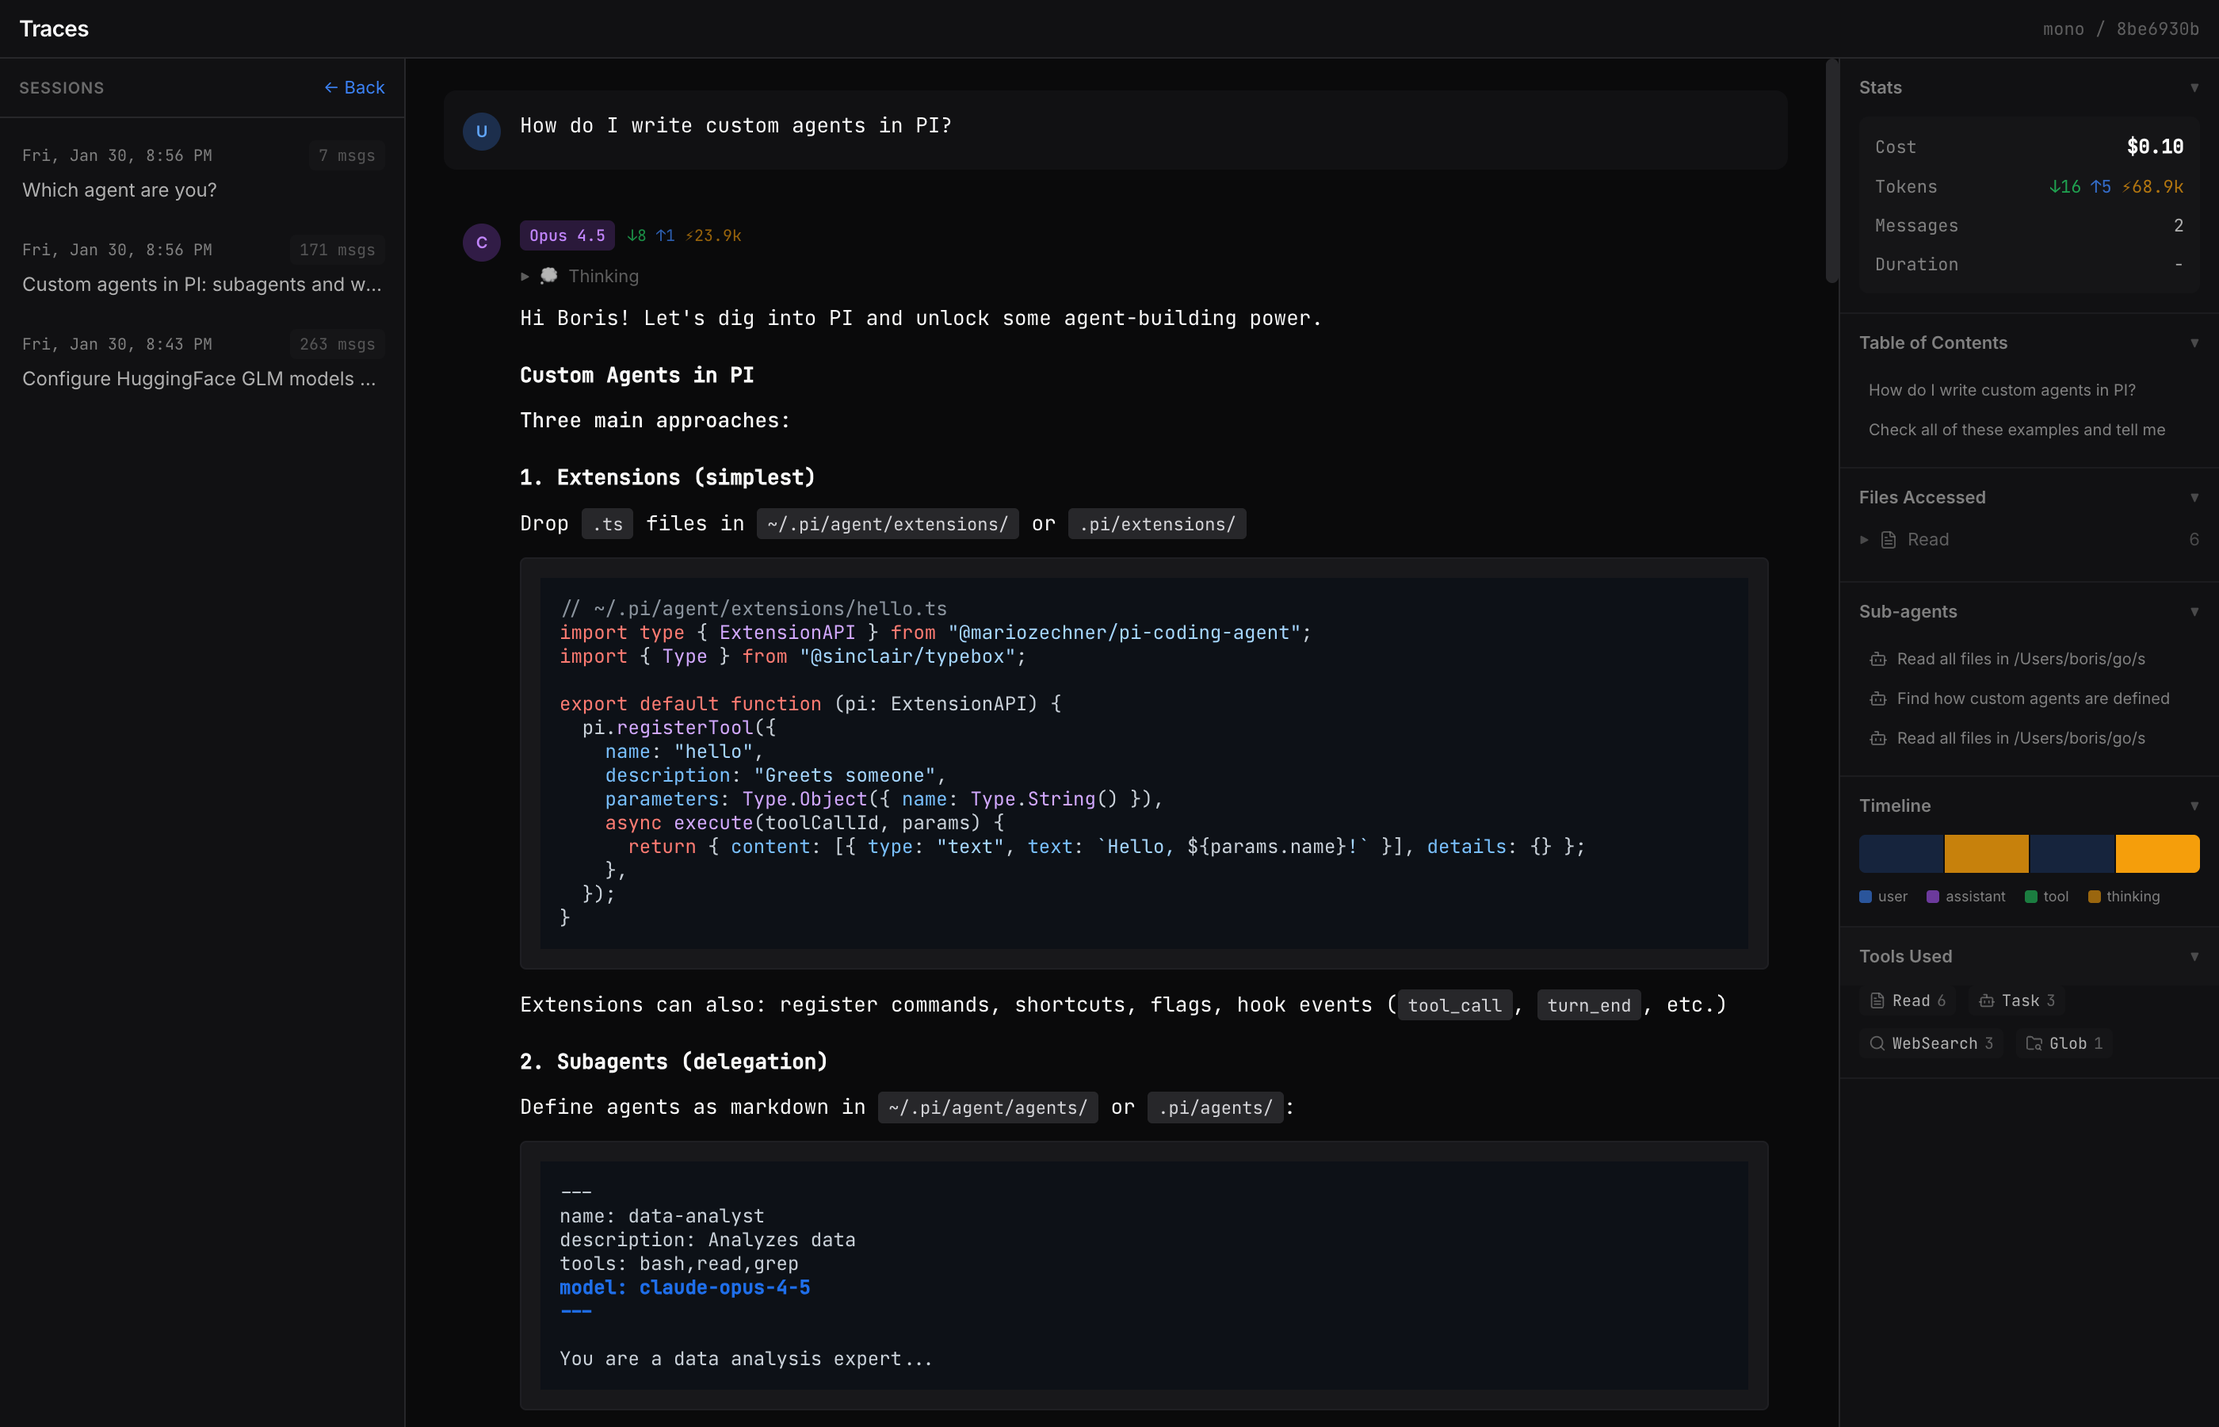
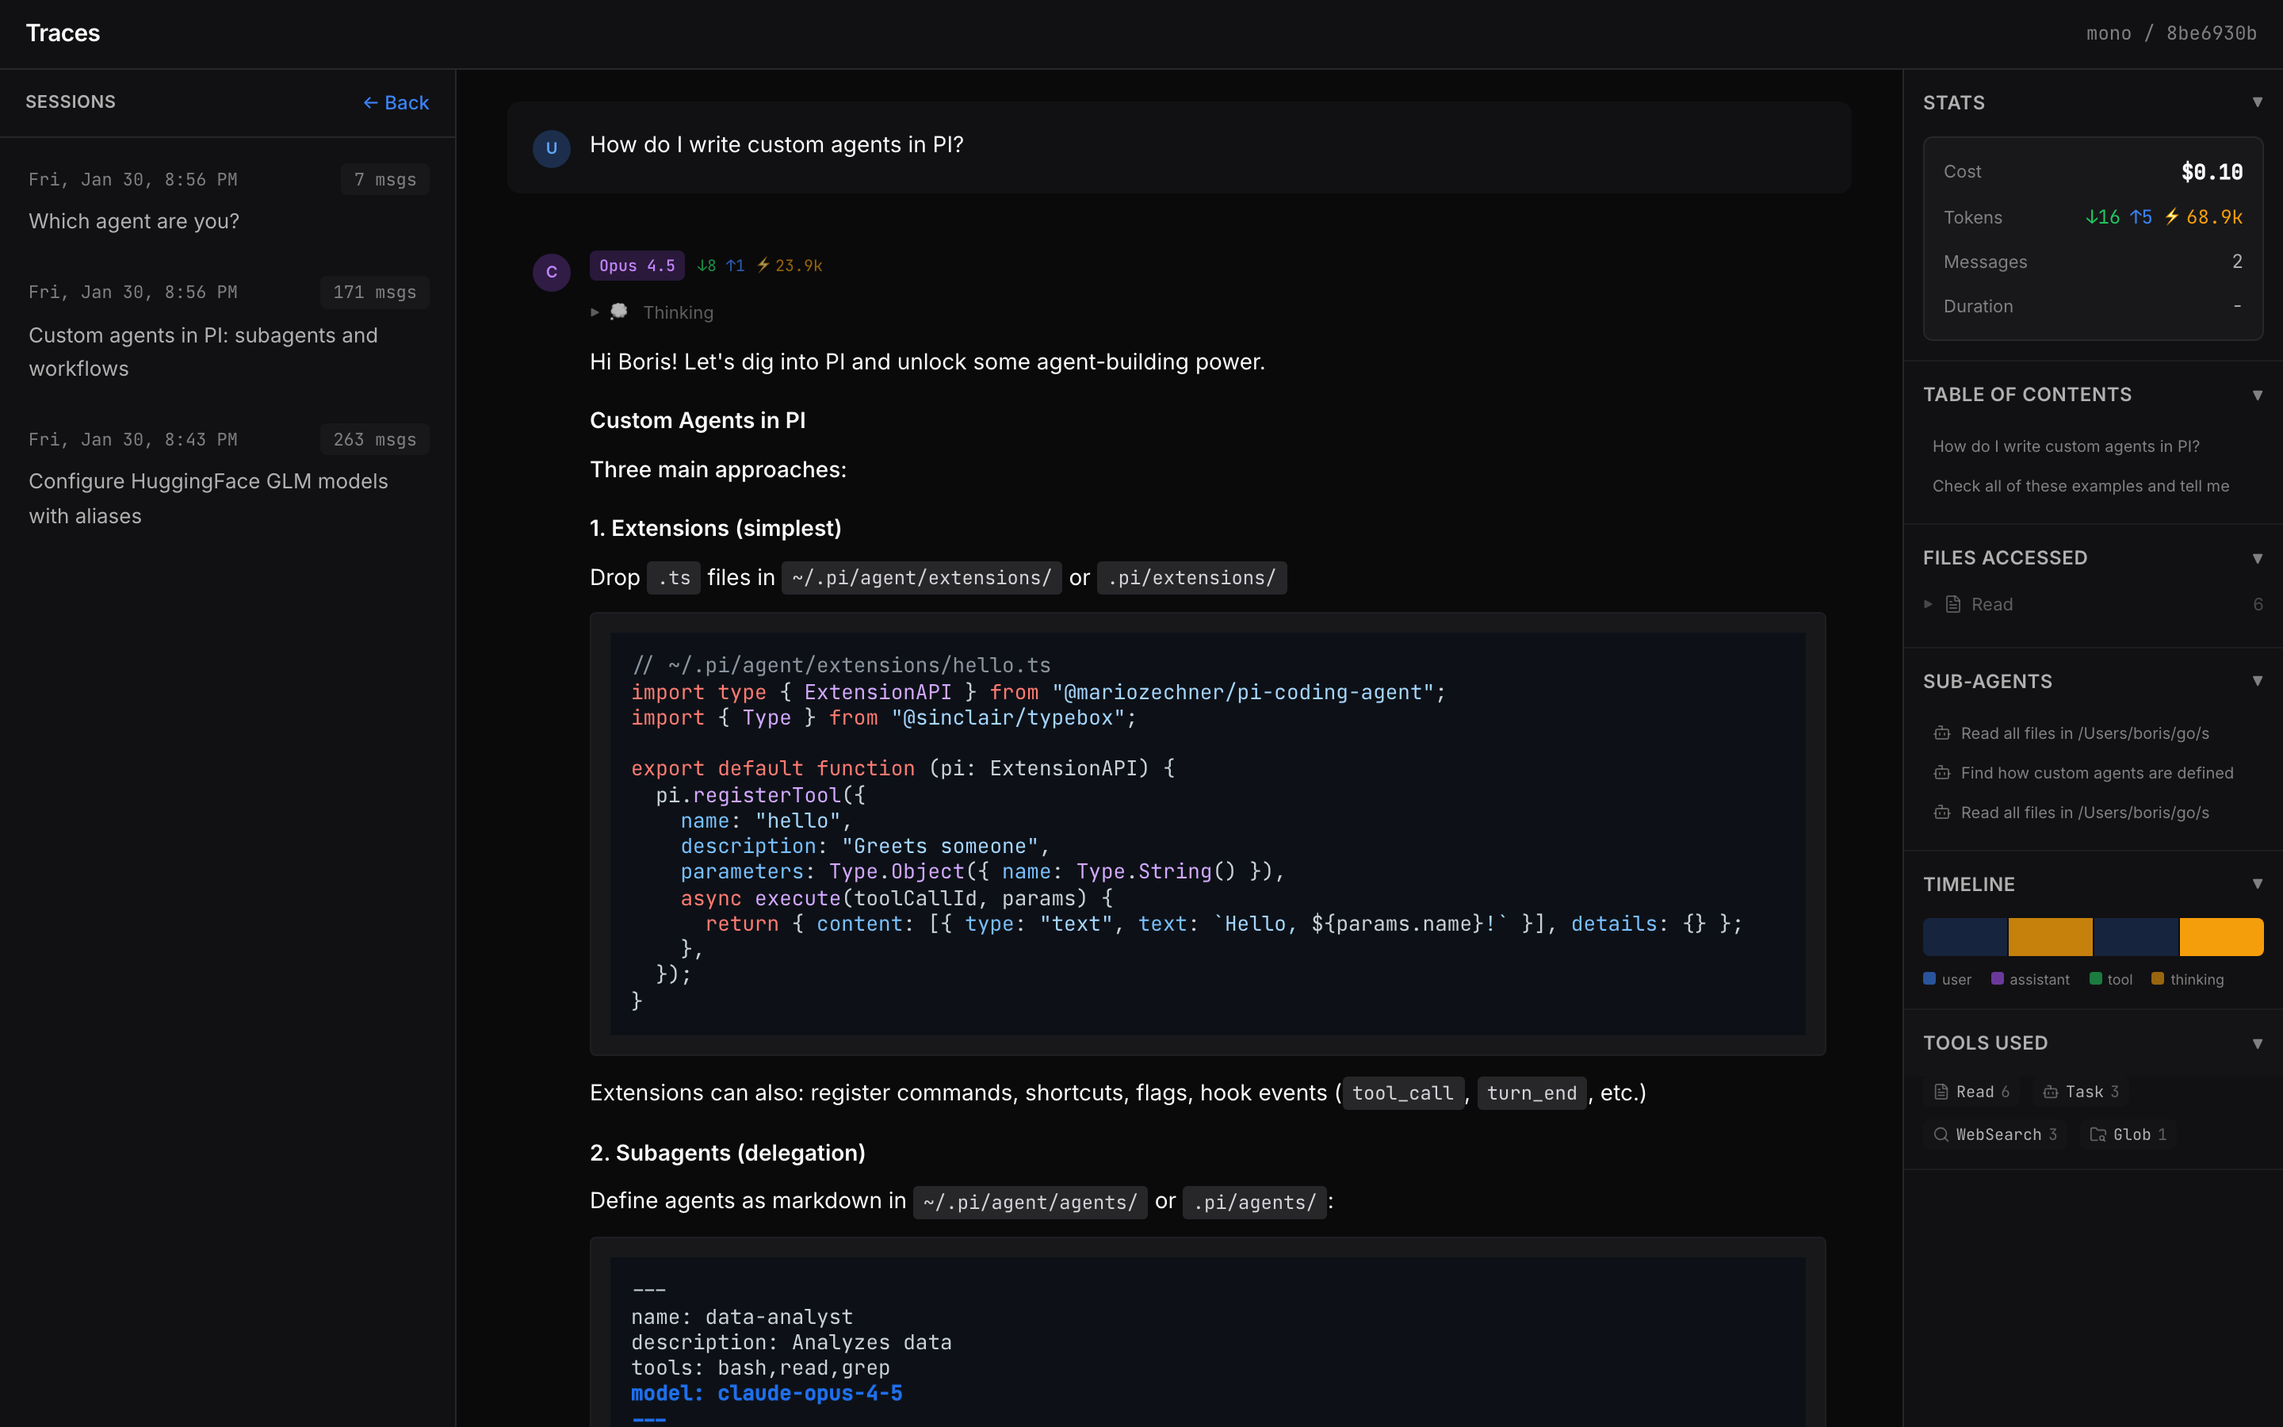
Improve typography: sans-serif prose, monospace code, better contrast
- Messages: 14px sans-serif (was 13px monospace)
- Better spacing and visual hierarchy
- Sidebar: wider with larger text
- Stats: improved contrast
- Add Playwright retina screenshot tests

diff --git a/app.jsx b/app.jsx
@@ -317,10 +317,10 @@ function UserMessage({ content, id }) {
   if (!text.trim()) return null;
 
   return (
-    <div id={id} className="message flex gap-3 py-3 px-3 bg-surface-2/50 rounded-lg">
+    <div id={id} className="message flex gap-3 py-4 px-4 bg-surface-2/50 rounded-lg">
       <Avatar type="user" />
       <div className="flex-1 min-w-0">
-        <MarkdownContent text={text} className="text-text-primary prose prose-invert prose-sm max-w-none font-mono text-[13px] leading-relaxed" />
+        <MarkdownContent text={text} className="text-text-primary prose prose-invert prose-sm max-w-none text-[14px] leading-relaxed" />
       </div>
     </div>
   );
@@ -367,9 +367,9 @@ function AssistantMessage({ blocks, model, usage, id }) {
   }, [blocks]);
 
   return (
-    <div id={id} className="message flex gap-3 py-3 px-3" ref={ref}>
+    <div id={id} className="message flex gap-3 py-4 px-4" ref={ref}>
       <Avatar type="assistant" />
-      <div className="flex-1 min-w-0 space-y-2">
+      <div className="flex-1 min-w-0 space-y-3">
         {/* Model and token info */}
         {(model || usage) && (
           <div className="flex items-center gap-2 mb-1">
@@ -379,14 +379,14 @@ function AssistantMessage({ blocks, model, usage, id }) {
         )}
         {thinkingParts.length > 0 && (
           <Collapsible title="Thinking" icon="💭">
-            <MarkdownContent text={thinkingParts.join('\n\n')} className="text-[12px] opacity-80" />
+            <MarkdownContent text={thinkingParts.join('\n\n')} className="text-[13px] text-text-secondary leading-relaxed" />
           </Collapsible>
         )}
         {textParts.length > 0 && (
-          <MarkdownContent text={textParts.join('\n')} className="text-text-primary prose prose-invert prose-sm max-w-none font-mono text-[13px] leading-relaxed [&_pre]:bg-surface-2 [&_pre]:rounded [&_pre]:p-3 [&_code]:text-[12px]" />
+          <MarkdownContent text={textParts.join('\n')} className="text-text-primary prose prose-invert max-w-none text-[14px] leading-relaxed [&_pre]:bg-surface-2 [&_pre]:rounded [&_pre]:p-3 [&_code]:text-[13px] [&_code]:font-mono" />
         )}
         {toolParts.length > 0 && (
-          <div className="space-y-1.5">
+          <div className="space-y-2 mt-3">
             {toolParts.map((tool, i) => <ToolBlock key={tool.id || i} tool={tool} />)}
           </div>
         )}
@@ -430,45 +430,45 @@ function Sidebar({ projects, sessions, currentProject, onSelectProject, onSelect
   const showSessions = currentProject && sessions;
 
   return (
-    <aside className="w-64 flex-shrink-0 bg-surface-1 border-r border-border-subtle flex flex-col overflow-hidden">
+    <aside className="w-72 flex-shrink-0 bg-surface-1 border-r border-border-subtle flex flex-col overflow-hidden">
       {!showSessions ? (
         <div className="flex-1 min-h-0 overflow-y-auto scrollbar-thin">
-          <div className="px-3 py-2.5 border-b border-border-subtle sticky top-0 bg-surface-1/95 backdrop-blur-sm">
-            <h2 className="text-[10px] font-semibold text-text-muted/80 uppercase tracking-wider">Projects</h2>
+          <div className="px-4 py-3 border-b border-border-subtle sticky top-0 bg-surface-1/95 backdrop-blur-sm">
+            <h2 className="text-[11px] font-semibold text-text-secondary uppercase tracking-wide">Projects</h2>
           </div>
           <div className="py-1">
             {projects.map(p => (
               <div
                 key={p.id}
-                className="px-3 py-2.5 hover:bg-surface-2 cursor-pointer transition-colors border-l-2 border-transparent hover:border-accent-blue group"
+                className="px-4 py-3 hover:bg-surface-2 cursor-pointer transition-colors border-l-2 border-transparent hover:border-accent-blue group"
                 onClick={() => onSelectProject(p.id)}
                 title={p.path}
               >
-                <div className="font-medium text-[13px] text-text-primary truncate group-hover:text-white">{p.name}</div>
-                <div className="text-[10px] text-text-muted truncate mt-1 font-mono" title={p.path}>{p.path}</div>
+                <div className="font-medium text-[14px] text-text-primary truncate group-hover:text-white">{p.name}</div>
+                <div className="text-[11px] text-text-muted truncate mt-1 font-mono" title={p.path}>{p.path}</div>
               </div>
             ))}
           </div>
         </div>
       ) : (
         <div className="flex-1 min-h-0 overflow-y-auto scrollbar-thin">
-          <div className="px-3 py-2.5 border-b border-border-subtle flex items-center justify-between sticky top-0 bg-surface-1/95 backdrop-blur-sm z-10">
-            <h2 className="text-[10px] font-semibold text-text-muted/80 uppercase tracking-wider">Sessions</h2>
-            <button className="text-[11px] text-accent-blue hover:text-white transition-colors" onClick={onBack}>← Back</button>
+          <div className="px-4 py-3 border-b border-border-subtle flex items-center justify-between sticky top-0 bg-surface-1/95 backdrop-blur-sm z-10">
+            <h2 className="text-[11px] font-semibold text-text-secondary uppercase tracking-wide">Sessions</h2>
+            <button className="text-[12px] text-accent-blue hover:text-white transition-colors font-medium" onClick={onBack}>← Back</button>
           </div>
           <div className="py-1">
             {sessions.map(s => (
               <div
                 key={s.id}
-                className="px-3 py-2.5 hover:bg-surface-2 cursor-pointer transition-colors border-l-2 border-transparent hover:border-accent-purple group"
+                className="px-4 py-3 hover:bg-surface-2 cursor-pointer transition-colors border-l-2 border-transparent hover:border-accent-purple group"
                 onClick={() => onSelectSession(s.id)}
                 title={s.summary}
               >
-                <div className="flex items-center gap-2 mb-1">
-                  <span className="text-[10px] text-text-muted font-mono">{formatDate(s.modified)}</span>
-                  <span className="text-[10px] text-text-muted/60 font-mono ml-auto bg-surface-2/50 px-1.5 py-0.5 rounded">{s.messageCount} msgs</span>
+                <div className="flex items-center gap-2 mb-1.5">
+                  <span className="text-[11px] text-text-muted font-mono">{formatDate(s.modified)}</span>
+                  <span className="text-[11px] text-text-muted font-mono ml-auto bg-surface-2 px-2 py-0.5 rounded">{s.messageCount} msgs</span>
                 </div>
-                <div className="text-[12px] text-text-secondary line-clamp-2 leading-snug group-hover:text-text-primary truncate" title={s.summary}>{s.summary}</div>
+                <div className="text-[13px] text-text-secondary line-clamp-2 leading-relaxed group-hover:text-text-primary" title={s.summary}>{s.summary}</div>
               </div>
             ))}
           </div>
@@ -482,13 +482,13 @@ function Sidebar({ projects, sessions, currentProject, onSelectProject, onSelect
 function SidebarSection({ title, children, defaultOpen = false }) {
   const [open, setOpen] = useState(defaultOpen);
   return (
-    <div className="border-b border-border-subtle/50">
+    <div className="border-b border-border-subtle/60">
       <button
-        className="w-full px-3 py-2.5 flex items-center justify-between hover:bg-surface-2/50 transition-colors sticky top-0 bg-surface-1 z-[1]"
+        className="w-full px-3 py-3 flex items-center justify-between hover:bg-surface-2/50 transition-colors sticky top-0 bg-surface-1 z-[1]"
         onClick={() => setOpen(!open)}
       >
-        <span className="text-[11px] font-semibold text-text-muted">{title}</span>
-        <span className="text-[8px] text-text-muted/50">{open ? '▼' : '▶'}</span>
+        <span className="text-[12px] font-semibold text-text-secondary uppercase tracking-wide">{title}</span>
+        <span className="text-[10px] text-text-muted">{open ? '▼' : '▶'}</span>
       </button>
       {open && <div className="px-3 pb-3 space-y-2">{children}</div>}
     </div>
@@ -500,25 +500,25 @@ function StatsSection({ stats }) {
   const tokenTooltip = `${stats.tokens.input.toLocaleString()} in / ${stats.tokens.output.toLocaleString()} out${stats.tokens.cached > 0 ? ` / ${stats.tokens.cached.toLocaleString()} cached` : ''}`;
   return (
     <SidebarSection title="Stats" defaultOpen={true}>
-      <div className="bg-surface-2/50 rounded-md p-2.5 space-y-2 text-[11px] font-mono">
+      <div className="bg-surface-2 rounded-md p-3 space-y-2.5 text-[12px] font-mono border border-border-subtle">
         <div className="flex justify-between items-center">
-          <span className="text-text-muted">Cost</span>
-          <span className="text-text-primary font-semibold text-[12px]">${stats.cost.toFixed(2)}</span>
+          <span className="text-text-muted font-sans text-[11px]">Cost</span>
+          <span className="text-text-primary font-semibold text-[13px]">${stats.cost.toFixed(2)}</span>
         </div>
         <div className="flex justify-between items-center" title={tokenTooltip}>
-          <span className="text-text-muted">Tokens</span>
+          <span className="text-text-muted font-sans text-[11px]">Tokens</span>
           <span className="flex gap-1.5">
-            <span className="text-green-500/80" title="Input">↓{fmt(stats.tokens.input)}</span>
-            <span className="text-blue-500/80" title="Output">↑{fmt(stats.tokens.output)}</span>
-            {stats.tokens.cached > 0 && <span className="text-amber-500/70" title="Cached">⚡{fmt(stats.tokens.cached)}</span>}
+            <span className="text-green-500" title="Input">↓{fmt(stats.tokens.input)}</span>
+            <span className="text-blue-500" title="Output">↑{fmt(stats.tokens.output)}</span>
+            {stats.tokens.cached > 0 && <span className="text-amber-500" title="Cached">⚡{fmt(stats.tokens.cached)}</span>}
           </span>
         </div>
         <div className="flex justify-between items-center">
-          <span className="text-text-muted">Messages</span>
+          <span className="text-text-muted font-sans text-[11px]">Messages</span>
           <span className="text-text-secondary">{stats.messageCount}</span>
         </div>
         <div className="flex justify-between items-center">
-          <span className="text-text-muted">Duration</span>
+          <span className="text-text-muted font-sans text-[11px]">Duration</span>
           <span className="text-text-secondary">{formatDuration(stats.duration)}</span>
         </div>
       </div>
@@ -789,11 +789,11 @@ function App() {
 
   return (
     <div className="h-full flex flex-col overflow-hidden">
-      <header className="flex-shrink-0 bg-surface-1 border-b border-border-subtle px-3 py-2 flex items-center gap-3">
-        <h1 className="text-sm font-semibold text-text-primary tracking-tight">Traces</h1>
+      <header className="flex-shrink-0 bg-surface-1 border-b border-border-subtle px-4 py-2.5 flex items-center gap-3">
+        <h1 className="text-[15px] font-semibold text-text-primary tracking-tight">Traces</h1>
         <div className="flex-1" />
         {breadcrumb && (
-          <div className="text-[11px] text-text-muted/70 font-mono">{breadcrumb}</div>
+          <div className="text-[12px] text-text-muted font-mono">{breadcrumb}</div>
         )}
       </header>
 

diff --git a/tests/design-screenshot.spec.js b/tests/design-screenshot.spec.js
@@ -1,0 +1,63 @@
+const { test, expect } = require('@playwright/test');
+
+test.describe('Design Screenshots', () => {
+  test('capture main view at retina resolution', async ({ page }) => {
+    // Set retina resolution (2x scale factor)
+    await page.setViewportSize({ width: 1440, height: 900 });
+    
+    // Navigate to the app
+    await page.goto('http://localhost:3847');
+    
+    // Wait for the app to load
+    await page.waitForSelector('#root', { timeout: 10000 });
+    
+    // Wait a bit for React to render
+    await page.waitForTimeout(2000);
+    
+    // Take screenshot at device scale factor 2 (retina)
+    await page.screenshot({
+      path: 'screenshots/after-retina.png',
+      fullPage: false,
+      scale: 'device',
+      type: 'png'
+    });
+    
+    console.log('Screenshot saved to screenshots/after-retina.png');
+  });
+  
+  test('capture with session loaded', async ({ page }) => {
+    // Set retina resolution
+    await page.setViewportSize({ width: 1440, height: 900 });
+    
+    // Navigate to the app
+    await page.goto('http://localhost:3847');
+    
+    // Wait for the app to load
+    await page.waitForSelector('#root', { timeout: 10000 });
+    await page.waitForTimeout(2000);
+    
+    // Try to click on first project if available
+    const projectItems = await page.locator('aside .group').all();
+    if (projectItems.length > 0) {
+      await projectItems[0].click();
+      await page.waitForTimeout(1000);
+      
+      // Try to click on first session
+      const sessionItems = await page.locator('aside .group').all();
+      if (sessionItems.length > 0) {
+        await sessionItems[0].click();
+        await page.waitForTimeout(2000);
+      }
+    }
+    
+    // Take screenshot
+    await page.screenshot({
+      path: 'screenshots/after-with-session.png',
+      fullPage: false,
+      scale: 'device',
+      type: 'png'
+    });
+    
+    console.log('Screenshot saved to screenshots/after-with-session.png');
+  });
+});

diff --git a/tests/hero-screenshot.spec.js b/tests/hero-screenshot.spec.js
@@ -1,0 +1,37 @@
+const { test } = require('@playwright/test');
+
+test('capture hero screenshot with expanded sidebar', async ({ page }) => {
+  // Set retina resolution
+  await page.setViewportSize({ width: 1440, height: 900 });
+  
+  // Navigate to specific session
+  await page.goto('http://localhost:3847/#/-Users-boris-go-src-github-com-pi-mono/8be6930b-098b-4ab7-bc97-94e5ca0aece8');
+  
+  // Wait for the app to load
+  await page.waitForSelector('#root', { timeout: 10000 });
+  await page.waitForTimeout(3000);
+  
+  // Expand all sidebar sections by clicking on them
+  const sidebarButtons = await page.locator('aside[class*="w-60"] button, aside[class*="w-72"] button').all();
+  for (const button of sidebarButtons) {
+    const text = await button.textContent();
+    // Click to expand if it has ▶ (collapsed)
+    if (text && text.includes('▶')) {
+      await button.click();
+      await page.waitForTimeout(200);
+    }
+  }
+  
+  // Wait for expansions to settle
+  await page.waitForTimeout(1000);
+  
+  // Take hero screenshot
+  await page.screenshot({
+    path: 'screenshots/hero.png',
+    fullPage: false,
+    scale: 'device',
+    type: 'png'
+  });
+  
+  console.log('Hero screenshot saved to screenshots/hero.png');
+});

diff --git a/playwright.config.js b/playwright.config.js
@@ -12,6 +12,16 @@ module.exports = defineConfig({
     trace: 'on-first-retry',
     screenshot: 'on',
   },
+  projects: [
+    {
+      name: 'retina',
+      use: {
+        browserName: 'chromium',
+        viewport: { width: 1440, height: 900 },
+        deviceScaleFactor: 2,
+      },
+    },
+  ],
   webServer: {
     command: 'node server.js',
     url: 'http://localhost:3847',
